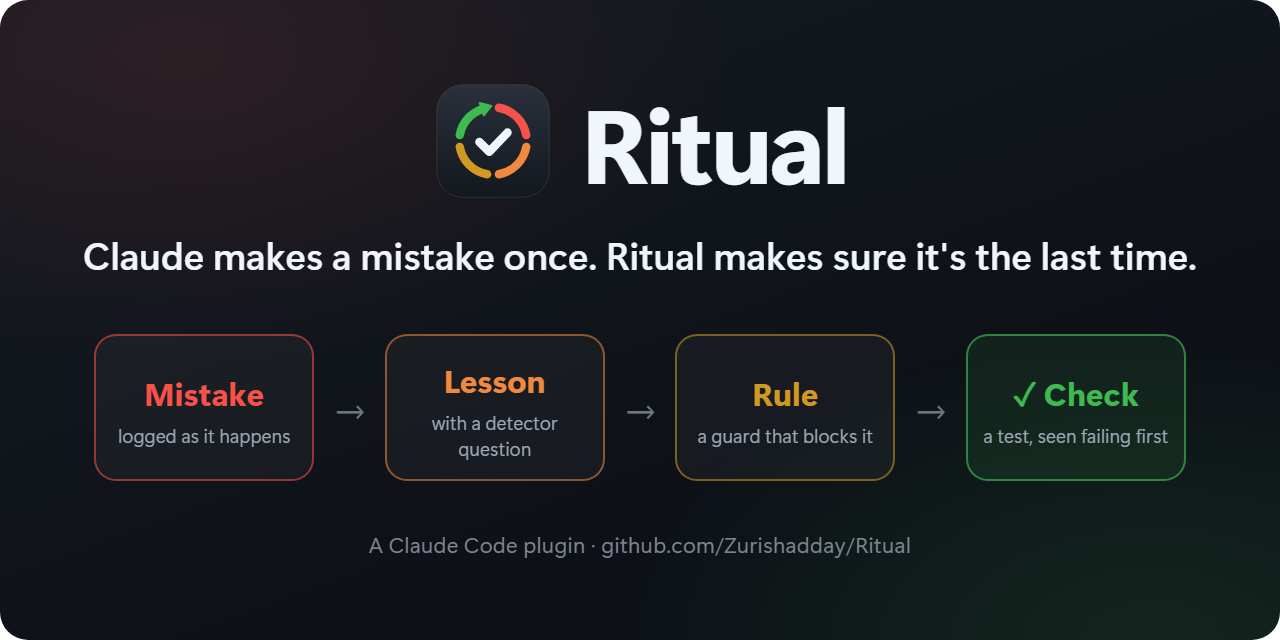
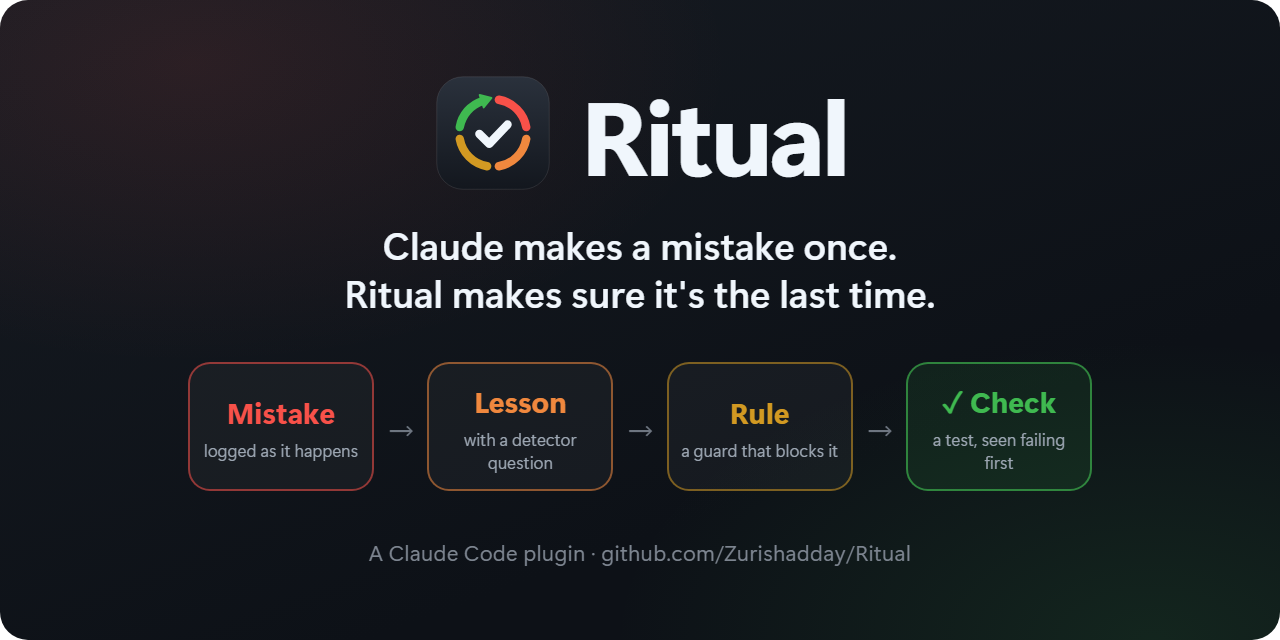
Keep the social preview inside WhatsApp's crop
WhatsApp crops link previews to about 1.56:1, cutting the sides of a
2:1 image: the tagline and the Mistake box were cut in half. The
content now sits in the central ~1000 px: the tagline on two lines and
a tighter row of steps. Checked with a simulated 335x215 crop. The
README banner gets the same layout.

diff --git a/assets/social/banner.html b/assets/social/banner.html
@@ -2,23 +2,23 @@
 <!-- Source of assets/banner.png (README header: the social preview with rounded corners). Render: node assets/social/render.mjs file:///<repo>/assets/social/banner.html <repo>/assets/banner.png -->
 <html><head><meta charset="utf-8"><link rel="stylesheet" href="common.css"><style>html, body { background: none; } .wrap { border-radius: 28px; background: radial-gradient(900px 500px at 15% 10%, rgba(248, 81, 73, .10), transparent 60%), radial-gradient(900px 500px at 90% 100%, rgba(63, 185, 80, .12), transparent 60%), linear-gradient(160deg, #161b22 0%, #0d1117 70%); }</style>
 <style>
-  .wrap { height: 640px; display: flex; flex-direction: column; align-items: center; justify-content: center; gap: 30px; padding: 0 80px; text-align: center; }
+  .wrap { height: 640px; display: flex; flex-direction: column; align-items: center; justify-content: center; gap: 28px; padding: 0 140px; text-align: center; }
   .head { display: flex; align-items: center; gap: 28px; }
   .logo { width: 120px; height: 120px; }
   .title { font-size: 104px; }
-  .steps { display: flex; align-items: stretch; gap: 18px; margin-top: 26px; }
-  .step { display: flex; flex-direction: column; align-items: center; gap: 8px; width: 220px; padding: 22px 10px 18px; justify-content: center; border-radius: 22px; background: rgba(255,255,255,.04); border: 2px solid; }
-  .step b { font-size: 32px; font-weight: 700; }
-  .step span { font-size: 19px; color: #9da7b3; }
+  .steps { display: flex; align-items: stretch; gap: 12px; margin-top: 18px; }
+  .step { display: flex; flex-direction: column; align-items: center; gap: 8px; width: 186px; padding: 18px 10px 16px; justify-content: center; border-radius: 22px; background: rgba(255,255,255,.04); border: 2px solid; }
+  .step b { font-size: 29px; font-weight: 700; }
+  .step span { font-size: 17px; color: #9da7b3; line-height: 1.3; }
   .s1 { border-color: rgba(248,81,73,.55); } .s1 b { color: #F85149; }
   .s2 { border-color: rgba(240,136,62,.55); } .s2 b { color: #F0883E; }
   .s3 { border-color: rgba(210,153,34,.55); } .s3 b { color: #D29922; }
   .s4 { border-color: rgba(63,185,80,.65); background: rgba(63,185,80,.10); } .s4 b { color: #3FB950; }
-  .arrow { font-size: 40px; color: #6e7681; align-self: center; }
+  .arrow { font-size: 34px; color: #6e7681; align-self: center; }
 </style></head>
 <body><div class="wrap">
   <div class="head"><img class="logo" src="../logo.svg" alt=""><div class="title">Ritual</div></div>
-  <div class="tagline">Claude makes a mistake once. Ritual makes sure it's the last time.</div>
+  <div class="tagline">Claude makes a mistake once.<br>Ritual makes sure it's the last time.</div>
   <div class="steps">
     <div class="step s1"><b>Mistake</b><span>logged as it happens</span></div><div class="arrow">→</div>
     <div class="step s2"><b>Lesson</b><span>with a detector question</span></div><div class="arrow">→</div>

diff --git a/assets/social/social-preview.html b/assets/social/social-preview.html
@@ -2,23 +2,23 @@
 <!-- Source of assets/social-preview.png (GitHub Settings → Social preview). Render: node assets/social/render.mjs file:///<repo>/assets/social/social-preview.html <repo>/assets/social-preview.png -->
 <html><head><meta charset="utf-8"><link rel="stylesheet" href="common.css">
 <style>
-  .wrap { height: 640px; display: flex; flex-direction: column; align-items: center; justify-content: center; gap: 30px; padding: 0 80px; text-align: center; }
+  .wrap { height: 640px; display: flex; flex-direction: column; align-items: center; justify-content: center; gap: 28px; padding: 0 140px; text-align: center; }
   .head { display: flex; align-items: center; gap: 28px; }
   .logo { width: 120px; height: 120px; }
   .title { font-size: 104px; }
-  .steps { display: flex; align-items: stretch; gap: 18px; margin-top: 26px; }
-  .step { display: flex; flex-direction: column; align-items: center; gap: 8px; width: 220px; padding: 22px 10px 18px; justify-content: center; border-radius: 22px; background: rgba(255,255,255,.04); border: 2px solid; }
-  .step b { font-size: 32px; font-weight: 700; }
-  .step span { font-size: 19px; color: #9da7b3; }
+  .steps { display: flex; align-items: stretch; gap: 12px; margin-top: 18px; }
+  .step { display: flex; flex-direction: column; align-items: center; gap: 8px; width: 186px; padding: 18px 10px 16px; justify-content: center; border-radius: 22px; background: rgba(255,255,255,.04); border: 2px solid; }
+  .step b { font-size: 29px; font-weight: 700; }
+  .step span { font-size: 17px; color: #9da7b3; line-height: 1.3; }
   .s1 { border-color: rgba(248,81,73,.55); } .s1 b { color: #F85149; }
   .s2 { border-color: rgba(240,136,62,.55); } .s2 b { color: #F0883E; }
   .s3 { border-color: rgba(210,153,34,.55); } .s3 b { color: #D29922; }
   .s4 { border-color: rgba(63,185,80,.65); background: rgba(63,185,80,.10); } .s4 b { color: #3FB950; }
-  .arrow { font-size: 40px; color: #6e7681; align-self: center; }
+  .arrow { font-size: 34px; color: #6e7681; align-self: center; }
 </style></head>
 <body><div class="wrap">
   <div class="head"><img class="logo" src="../logo.svg" alt=""><div class="title">Ritual</div></div>
-  <div class="tagline">Claude makes a mistake once. Ritual makes sure it's the last time.</div>
+  <div class="tagline">Claude makes a mistake once.<br>Ritual makes sure it's the last time.</div>
   <div class="steps">
     <div class="step s1"><b>Mistake</b><span>logged as it happens</span></div><div class="arrow">→</div>
     <div class="step s2"><b>Lesson</b><span>with a detector question</span></div><div class="arrow">→</div>
